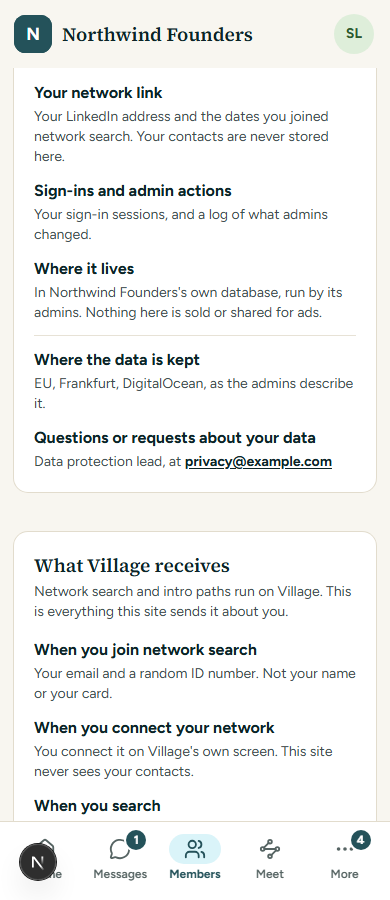
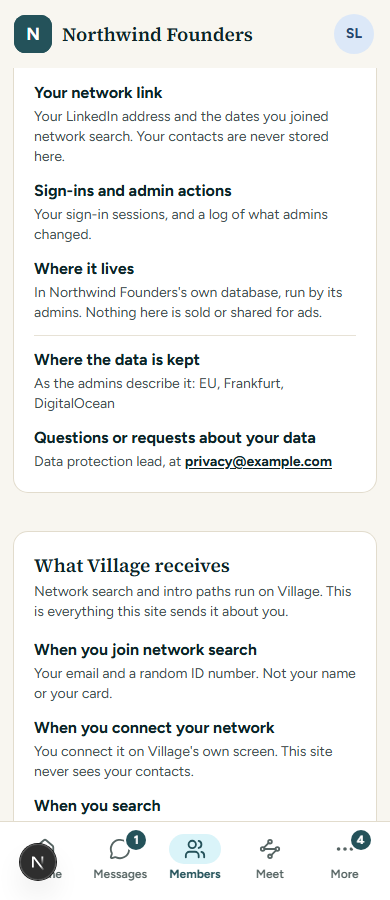
Data setting repairs from verification: no doubled full stop, hidden characters refused, form shows what was stored

Changed region(s): [[0.0923, 0.4044, 0.8923, 0.4667], [0.8615, 0.0, 0.9538, 0.0622]]

diff --git a/src/modules/admin/components/data-home-form.tsx b/src/modules/admin/components/data-home-form.tsx
@@ -26,7 +26,16 @@ export function DataHomeForm({ saved }: { saved: DataHomeBody }) {
   const [location, setLocation] = useState(saved.location);
   const [contactName, setContactName] = useState(saved.contactName);
   const [contactEmail, setContactEmail] = useState(saved.contactEmail);
-  const save = useMutation({ mutationFn: saveDataHome, onSuccess: () => router.refresh() });
+  const save = useMutation({
+    mutationFn: saveDataHome,
+    onSuccess: () => {
+      // Show what was stored: the server trims, and keeps the email in lowercase.
+      setLocation((text) => text.trim());
+      setContactName((text) => text.trim());
+      setContactEmail((text) => text.trim().toLowerCase());
+      router.refresh();
+    },
+  });
 
   return (
     <form
@@ -43,7 +52,7 @@ export function DataHomeForm({ saved }: { saved: DataHomeBody }) {
         value={location}
         maxLength={MAXIMUM_DATA_LOCATION_LENGTH}
         onChange={(event) => setLocation(event.target.value)}
-        placeholder="EU, Frankfurt, DigitalOcean"
+        placeholder="For example: EU, Frankfurt, DigitalOcean"
         hint="The region and the host, in your own words. Members see exactly what you type."
       />
       <FormField
@@ -52,7 +61,7 @@ export function DataHomeForm({ saved }: { saved: DataHomeBody }) {
         value={contactName}
         maxLength={MAXIMUM_DATA_CONTACT_NAME_LENGTH}
         onChange={(event) => setContactName(event.target.value)}
-        placeholder="Data protection lead"
+        placeholder="For example: Data protection lead"
         hint="A name or a role. Optional."
       />
       <FormField
@@ -61,7 +70,7 @@ export function DataHomeForm({ saved }: { saved: DataHomeBody }) {
         type="email"
         value={contactEmail}
         onChange={(event) => setContactEmail(event.target.value)}
-        placeholder="privacy@example.com"
+        placeholder="For example: privacy@example.com"
         hint="Members can write here to ask about, copy or delete their data."
       />
       <FormError message={save.error?.message ?? null} />

diff --git a/src/app/(app)/members/data/data-home.test.ts b/src/app/(app)/members/data/data-home.test.ts
@@ -17,7 +17,7 @@ const session = vi.hoisted(() => ({ cookie: "" }));
 vi.mock("next/headers", () => ({ headers: async () => new Headers({ cookie: session.cookie }) }));
 
 const APP_URL = "http://localhost:3000";
-const FILLED = { location: "EU, Frankfurt, a made-up host", contactName: "Data protection lead", contactEmail: "Privacy@Example.com" };
+const FILLED = { location: "EU, Frankfurt, a made-up host.", contactName: "Data protection lead", contactEmail: "Privacy@Example.com" };
 
 type Member = Awaited<ReturnType<typeof createSignedInMember>>;
 
@@ -91,7 +91,7 @@ describe("where the data is kept, and whom to ask", () => {
     expect(html).toContain("Write to");
   });
 
-  it("refuses a bad email, or a name with no email, in plain words", async () => {
+  it("refuses a bad email, a name with no email, or hidden characters, in plain words", async () => {
     const badEmail = await save(admin, { ...FILLED, contactEmail: "not-an-email" });
     expect(badEmail.status).toBe(422);
     expect(JSON.stringify(await badEmail.json())).toContain("Check the contact email: it isn't an email address.");
@@ -99,6 +99,10 @@ describe("where the data is kept, and whom to ask", () => {
     const nameOnly = await save(admin, { ...FILLED, contactEmail: "" });
     expect(nameOnly.status).toBe(422);
     expect(JSON.stringify(await nameOnly.json())).toContain("Add an email for data requests, or clear the contact's name.");
+
+    const hidden = await save(admin, { ...FILLED, location: "EU\u202Ehidden" });
+    expect(hidden.status).toBe(422);
+    expect(JSON.stringify(await hidden.json())).toContain("Use plain text on one line.");
 
     expect(await readDataHome(database)).toEqual({ location: null, contact: null });
   });

diff --git a/src/platform/settings/data-home-api.ts b/src/platform/settings/data-home-api.ts
@@ -5,17 +5,22 @@ import { z } from "zod";
 export const MAXIMUM_DATA_LOCATION_LENGTH = 120;
 export const MAXIMUM_DATA_CONTACT_NAME_LENGTH = 80;
 const MAXIMUM_EMAIL_LENGTH = 254;
+// Line breaks and invisible characters (a right-to-left override can make text read backwards) are refused.
+const HIDDEN_CHARACTERS = /[\p{Cc}\p{Cf}]/u;
+const PLAIN_TEXT_MESSAGE = "Use plain text on one line.";
 
 export const dataHomeBodySchema = z
   .object({
     location: z
       .string()
       .trim()
-      .max(MAXIMUM_DATA_LOCATION_LENGTH, `Keep where the data is kept under ${MAXIMUM_DATA_LOCATION_LENGTH} characters.`),
+      .max(MAXIMUM_DATA_LOCATION_LENGTH, `Keep where the data is kept under ${MAXIMUM_DATA_LOCATION_LENGTH} characters.`)
+      .refine((text) => !HIDDEN_CHARACTERS.test(text), `Where the data is kept: ${PLAIN_TEXT_MESSAGE}`),
     contactName: z
       .string()
       .trim()
-      .max(MAXIMUM_DATA_CONTACT_NAME_LENGTH, `Keep the contact's name or role under ${MAXIMUM_DATA_CONTACT_NAME_LENGTH} characters.`),
+      .max(MAXIMUM_DATA_CONTACT_NAME_LENGTH, `Keep the contact's name or role under ${MAXIMUM_DATA_CONTACT_NAME_LENGTH} characters.`)
+      .refine((text) => !HIDDEN_CHARACTERS.test(text), `The contact's name or role: ${PLAIN_TEXT_MESSAGE}`),
     contactEmail: z
       .string()
       .trim()

diff --git a/src/app/(app)/members/data/page.tsx b/src/app/(app)/members/data/page.tsx
@@ -69,7 +69,7 @@ function DataHomeFacts({ dataHome: { location, contact } }: { dataHome: DataHome
       {location ? (
         <div className="grid gap-0.5">
           <dt className="font-bold">Where the data is kept</dt>
-          <dd className="type-small wrap-anywhere text-foreground-soft">{location}, as the admins describe it.</dd>
+          <dd className="type-small wrap-anywhere text-foreground-soft">As the admins describe it: {location}</dd>
         </div>
       ) : null}
       {contact ? (

diff --git a/.ai/features/hosting-data-settings/SPEC.md b/.ai/features/hosting-data-settings/SPEC.md
@@ -21,7 +21,7 @@ data region, the data-protection contact and a data agreement link.
 ## What it does now
 - Settings has a "Where your data is kept" card: where the data is kept (free text, for example "EU, Frankfurt,
   DigitalOcean") and a contact for data requests (a name or role, and an email). All optional.
-- A bad email is refused in plain words; a name with no email is refused too.
+- A bad email is refused in plain words; a name with no email is refused too, and so are line breaks and invisible characters.
 - When set, members see both on Your data, under "What is stored, and where", word for word; the email is a
   `mailto:` link. With nothing set, nothing about them shows.
 - Demo mode fills them with made-up values (an example.com address).
